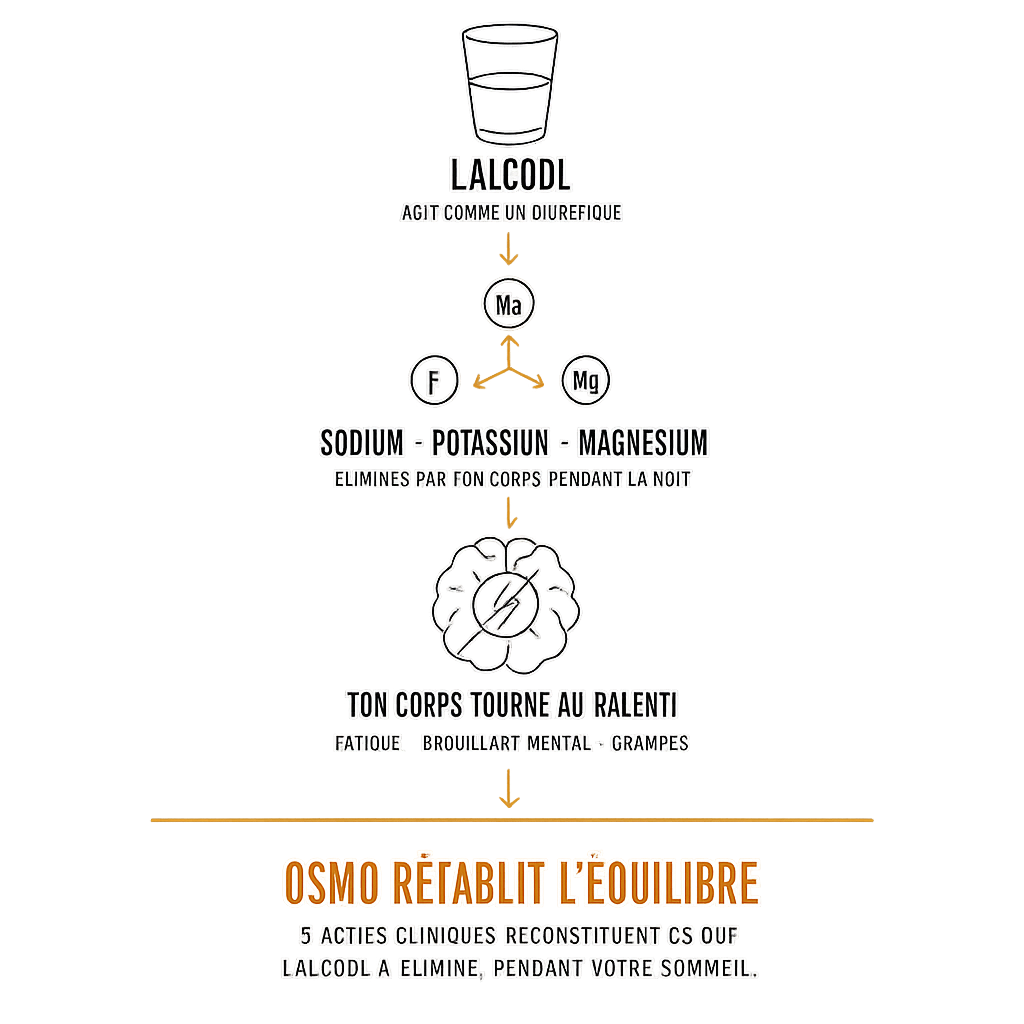
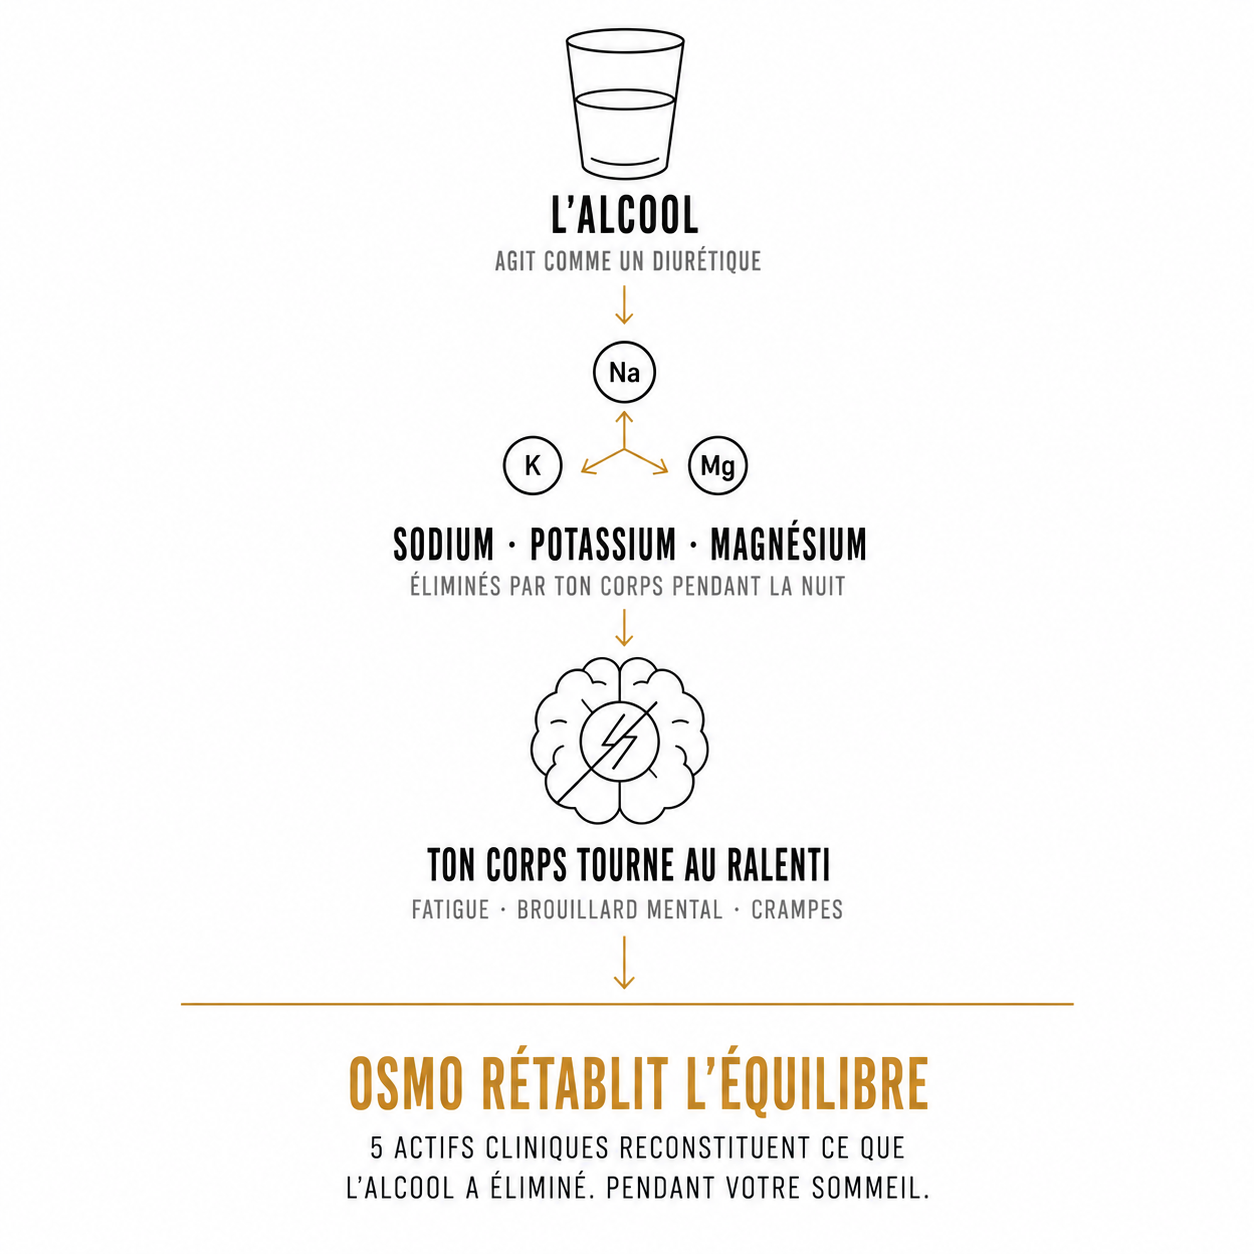
White section background for seamless infographic, subtle divider
- Section bg changed from paper-2 to pure white #FFFFFF
- Infographic replaced with white-bg version (blends seamlessly)
- Subtle 1px #E0E0E0 bottom border divider

Changed region(s): [[0.3125, 0.125, 0.6875, 0.8125], [0.2812, 0.8125, 0.75, 0.9688], [0.4375, 0.0, 0.5625, 0.0938]]

diff --git a/osmo-site/src/components/sections/WhyYouSuffer.tsx b/osmo-site/src/components/sections/WhyYouSuffer.tsx
@@ -7,8 +7,8 @@ import { FONTS } from "@/lib/constants";
 export default function WhyYouSuffer() {
   return (
     <section
-      className="bg-[var(--paper-2)] border-b border-[var(--rule)] relative z-[5]"
-      style={{ padding: "80px 0" }}
+      className="relative z-[5]"
+      style={{ padding: "80px 0", background: "#FFFFFF", borderBottom: "1px solid #E0E0E0" }}
     >
       <div className="max-w-[1380px] mx-auto px-5 sm:px-10">
         <div className="grid grid-cols-1 lg:grid-cols-[1.5fr_1fr] gap-12 lg:gap-20 items-center">
